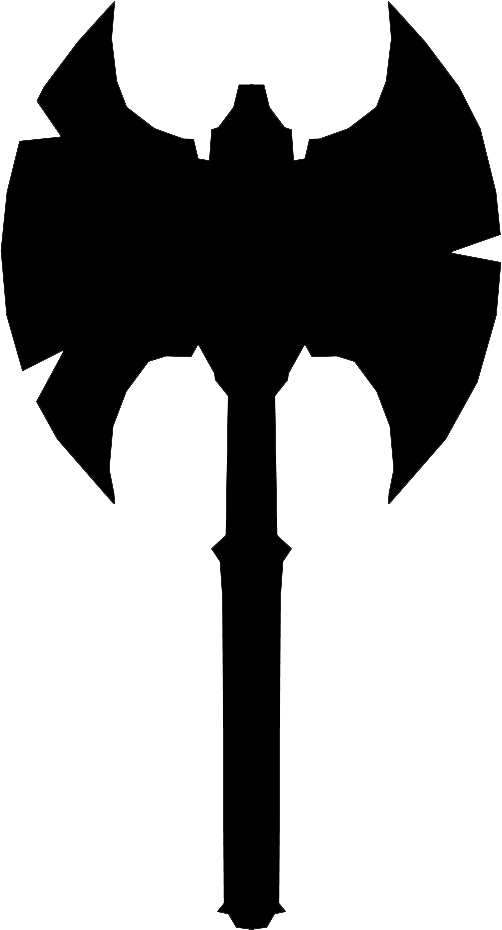
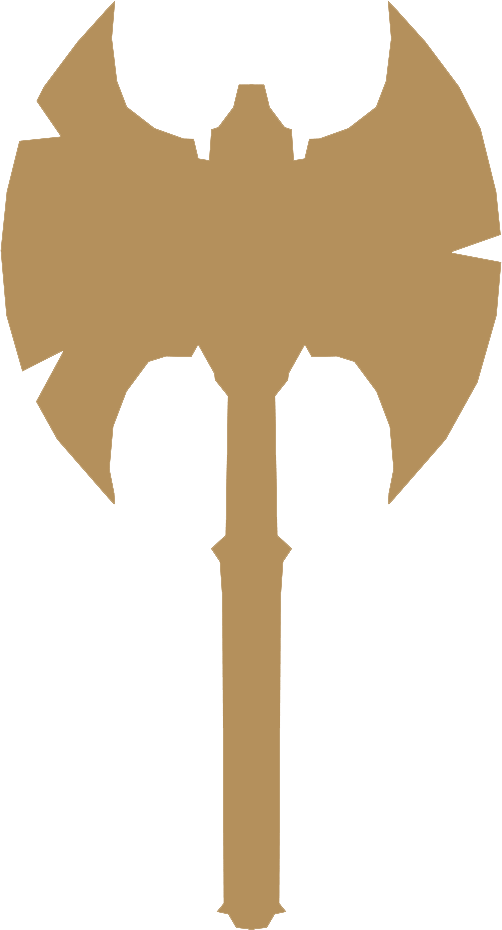
There's flip animation now!
*Added flip animation to the cards
*Fixed the randomize background
*Changed the colour of the classes' symbols
*Edited some styling
*Added some breakpoint styling for the headers and images

diff --git a/assets/css/app.css b/assets/css/app.css
@@ -1,26 +1,55 @@
-body { background-color: #000; }
+/* GENERAL */
+h1 { letter-spacing: 3px; text-transform: uppercase; margin-bottom: 50px; }
 
-h1 { letter-spacing: 3px; text-transform: uppercase; }
+h2 { font-size: 1.3em; letter-spacing: 3px; text-transform: uppercase; }
 
-@media only screen and (max-width: 480px) { h2 { line-height: 50px; letter-spacing: 3px; text-transform: uppercase; } }
+@media only screen and (max-width: 480px) { h2 { line-height: 50px; } }
+
+@media only screen and (max-width: 320px) { h2 { font-size: 1.5em; } }
 
 a { color: #fff; }
 
-a:hover { color: #f2f2f2; transition: all 0.25s ease-out; }
+a:hover { color: #f2f2f2; transition: all 0.3s ease-in-out; }
 
-.overlay { background: url("../images/wallpaper-2.jpg") 50% 0 no-repeat; background-size: cover; -webkit-filter: blur(5px); filter: blur(5px); opacity: 0.5; position: fixed; top: 0; bottom: 0; left: -5px; width: 100%; z-index: -1; overflow: hidden; }
+.overlay { background: 50% 0 no-repeat; background-size: cover; -webkit-filter: blur(7px); filter: blur(7px); opacity: 0.5; position: fixed; top: 0; bottom: 0; width: 100%; z-index: -1; overflow: hidden; }
 
 .content { padding: 150px 0; text-align: center; }
 
-.card { background: url("../images/tarot.svg") 50% 0 no-repeat; height: 680px; text-align: center; padding: 120px 80px; }
+.flip-container { perspective: 1000px; text-align: center; }
 
-.card img { width: 200px; margin-bottom: 20px; }
+.flip-container .flipper { transition: 0.6s; transform-style: preserve-3d; position: relative; }
 
-/* MOBILE */
+.flip-container .front, .flip-container .back { backface-visibility: hidden; position: absolute; top: 0; left: 0; }
+
+.flip-container .front { z-index: 2; /* for firefox 31 */ transform: rotateY(0deg); }
+
+.flip-container .back { transform: rotateY(180deg); }
+
+.flip-container, .front, .back { width: 100%; height: auto; }
+
+.flip { transform: rotateY(180deg); }
+
+.card { background: url("../images/tarot.svg") 50% 0 no-repeat; height: 680px; text-align: center; padding: 80px 50px; }
+
+@media only screen and (max-width: 480px) { .card { padding: 120px 80px; } }
+
+@media only screen and (max-width: 380px) { .card { padding: 90px 70px; } }
+
+@media only screen and (max-width: 320px) { .card { padding: 80px 50px; } }
+
+.card img { width: 140px; margin-bottom: 20px; }
+
+@media only screen and (max-width: 480px) { .card img { width: 200px; } }
+
+@media only screen and (max-width: 360px) { .card img { width: 180px; } }
+
+@media only screen and (max-width: 320px) { .card img { width: 160px; margin-bottom: 10px; } }
+
+/* MOBILE STUFF*/
 /* NAV */
-.mobile-menu { background-color: #222; height: 50px; width: 100%; position: fixed; top: 0; text-align: center; line-height: 50px; }
+.mobile-menu { background-color: #222; height: 50px; width: 100%; position: fixed; top: 0; z-index: 1010; text-align: center; line-height: 50px; }
 
-.menu-toggle { background-color: #222; border-top: 1px solid #444; width: 100%; position: fixed; top: 50px; display: none; padding: 20px; text-align: center; }
+.menu-toggle { background-color: #222; border-top: 1px solid #444; width: 100%; position: fixed; top: 50px; z-index: 1010; display: none; padding: 20px; text-align: center; }
 
 /* CONTENT */
-.mobile-content { padding: 50px 0; margin-top: 50px; }
+.mobile-content { padding: 10px 0; margin-top: 50px; }

diff --git a/assets/sass/app.scss b/assets/sass/app.scss
@@ -2,21 +2,26 @@
 @import "setting";
 @import "edje";
 
-body {
-  background-color: #000;
-}
+/* GENERAL */
 
 h1 {
   letter-spacing: 3px;
   text-transform: uppercase;
+
+  margin-bottom: 50px;
 }
 
 h2 {
+  font-size: 1.3em;
+  letter-spacing: 3px;
+  text-transform: uppercase;
   
   @include below(mini) {
     line-height: 50px;
-    letter-spacing: 3px;
-    text-transform: uppercase;
+  }
+
+  @include below(320px) {
+    font-size: 1.5em;
   }
 }
 
@@ -30,16 +35,16 @@ a:hover {
 }
 
 .overlay {
-  background: url('../images/wallpaper-2.jpg') 50% 0 no-repeat;
+  background: 50% 0 no-repeat;
   background-size: cover;
-  -webkit-filter: blur(5px);
-  filter: blur(5px);
+  -webkit-filter: blur(7px);
+  filter: blur(7px);
+
   opacity: 0.5;
 
   position: fixed;
   top: 0;
   bottom: 0;
-  left: -5px;
   width: 100%;
   z-index: -1;
 
@@ -52,21 +57,86 @@ a:hover {
   text-align: center;
 }
 
+.flip-container {
+  perspective: 1000px;
+
+  text-align: center;
+
+  .flipper {
+    transition: 0.6s;
+    transform-style: preserve-3d;
+
+    position: relative;
+  }
+
+  .front, .back {
+    backface-visibility: hidden;
+
+    position: absolute;
+    top: 0;
+    left: 0;
+  }
+
+  .front {
+    z-index: 2;
+    /* for firefox 31 */
+    transform: rotateY(0deg);
+  }
+
+  .back {
+    transform: rotateY(180deg);
+  }
+}
+
+.flip-container, .front, .back {
+  width: 100%;
+  height: auto;
+}
+
+.flip {
+  transform: rotateY(180deg);
+}
+
 .card {
   background: url('../images/tarot.svg') 50% 0 no-repeat;
   height: 680px;
 
   text-align: center;
 
-  padding: 120px 80px;
+  padding: 80px 50px;
+
+  @include below(mini) {
+    padding: 120px 80px;
+  }
+
+  @include below(380px) {
+    padding: 90px 70px;
+  }
+
+  @include below(320px) {
+    padding: 80px 50px;
+  }
 
   img {
-    width: 200px;
+    width: 140px;
     margin-bottom: 20px;
+
+    @include below(mini) {
+      width: 200px;
+    }
+
+    @include below(360px) {
+      width: 180px;
+    }
+
+    @include below(320px) {
+      width: 160px;
+      margin-bottom: 10px;
+    }
   }
 }
 
-/* MOBILE */
+/* MOBILE STUFF*/
 /* NAV */
 .mobile-menu {
   background-color: #222;
@@ -75,6 +145,7 @@ a:hover {
 
   position: fixed;
   top: 0;
+  z-index: z(menu);
 
   text-align: center;
   line-height: 50px;
@@ -87,6 +158,7 @@ a:hover {
 
   position: fixed;
   top: 50px;
+  z-index: z(menu);
 
   display: none;
 
@@ -97,6 +169,6 @@ a:hover {
 
 /* CONTENT */
 .mobile-content {
-  padding: 50px 0;
+  padding: 10px 0;
   margin-top: 50px;
 }

diff --git a/index.html b/index.html
@@ -28,7 +28,22 @@
         <h1>Classes</h1>
       </h-column>
 
-      
+      <h-row>
+        <h-column class="large-3">
+          <div class="flip-container barbarian">
+            <article class="flipper">
+              <div class="front card">
+                <img src="assets/images/barbarian.png">
+                <h2>Barbarian</h2>
+              </div>
+
+              <div class="back card">
+                back
+              </div>
+            </article>
+          </div>
+        </h-column>
+      </h-row>
     </h-row>
   </section>
 
@@ -42,10 +57,18 @@
     </nav>
     <h-row>
       <h-column class="small-12">
-        <article class="card">
-          <img src="assets/images/barbarian.png">
-          <h2>Barbarian</h2>
-        </article>
+        <div class="flip-container barbarian">
+          <article class="flipper">
+            <div class="front card">
+              <img src="assets/images/barbarian.png">
+              <h2>Barbarian</h2>
+            </div>
+
+            <div class="back card">
+              back
+            </div>
+          </article>
+        </div>
       </h-column>
     </h-row>
   </section>
@@ -74,4 +97,5 @@
   Dungeon & Dragons Favicon
   Tarot Card Image: https://www.vecteezy.com/vector-art/127516-free-tarot-card-back-design-vector
   Framework: https://github.com/hrsetyono/edje
+  Card Flip Tutorial (I edited it to toggle on click): https://davidwalsh.name/css-flip
 -->

diff --git a/assets/js/app.js b/assets/js/app.js
@@ -9,16 +9,19 @@ function start() {
   app.init();
   animateOnScroll.init();
 
-  window.onload = choosePic;
-  var myPix = new Array("../images/wallpaper-1.jpg", "../images/wallpaper-2.jpg", "../images/wallpaper-3.jpg", "../images/wallpaper-4.jpg", "../images/wallpaper-5.jpg", "../images/wallpaper-6.jpg");
-  function choosePic() {
-    var randomNum = Math.floor((Math.random() * myPix.length));
-    $("#wallpaper").style.backgroundImage =
-        "url(" + myPix[randomNum] + ")";
+  window.onload = randomizeBackground;
+  var wallpapers = new Array("assets/images/wallpaper-1.jpg", "assets/images/wallpaper-2.jpg", "assets/images/wallpaper-3.jpg", "assets/images/wallpaper-4.jpg", "assets/images/wallpaper-5.jpg", "assets/images/wallpaper-6.jpg");
+  function randomizeBackground() {
+    var randomNum = Math.floor((Math.random() * wallpapers.length));
+    $("#wallpaper").css("background-image", "url("+ wallpapers[randomNum] + ")");
   }
 
   $(".mobile-menu").click(function(){
     $(".menu-toggle").slideToggle(200);
+  });
+
+  $(".barbarian").click(function() {
+    $(".flipper").toggleClass("flip");
   });
 }
 

diff --git a/assets/css/framework.css b/assets/css/framework.css
@@ -126,11 +126,11 @@ td, th { padding: 0; }
 /* ----------
   Typography
 ----------- */
-body { position: relative; background: #fff; font-size: 16px; font-family: "Libre Baskerville", sans-serif; font-weight: 400; line-height: 1.65; color: #222; }
+body { position: relative; background: #000; font-size: 16px; font-family: "Libre Baskerville", sans-serif; font-weight: 400; line-height: 1.65; color: #222; }
 
 p { margin-top: 0; margin-bottom: 0; }
 
-a { color: #2196f3; transition: all 0.25s ease-out; }
+a { color: #2196f3; transition: all 0.3s ease-in-out; }
 
 a:hover { color: #51adf6; }
 

diff --git a/assets/sass/_setting.scss b/assets/sass/_setting.scss
@@ -23,7 +23,7 @@ $color-link : $color-main;
 // $color-green : #4caf50;
 // $color-blue: #2196f3;
 
-// $body-background: #fff;
+$body-background: #000;
 // $text-highlight: null;
 
 
@@ -49,7 +49,7 @@ $z-indexes: (
 
 // ----- GLOBAL VALUE -----
 // $g-radius     : 2px;
-// $g-transition : all .25s ease-in-out;
+$g-transition : all .3s ease-in-out;
 
 
 // ----- GRID -----
